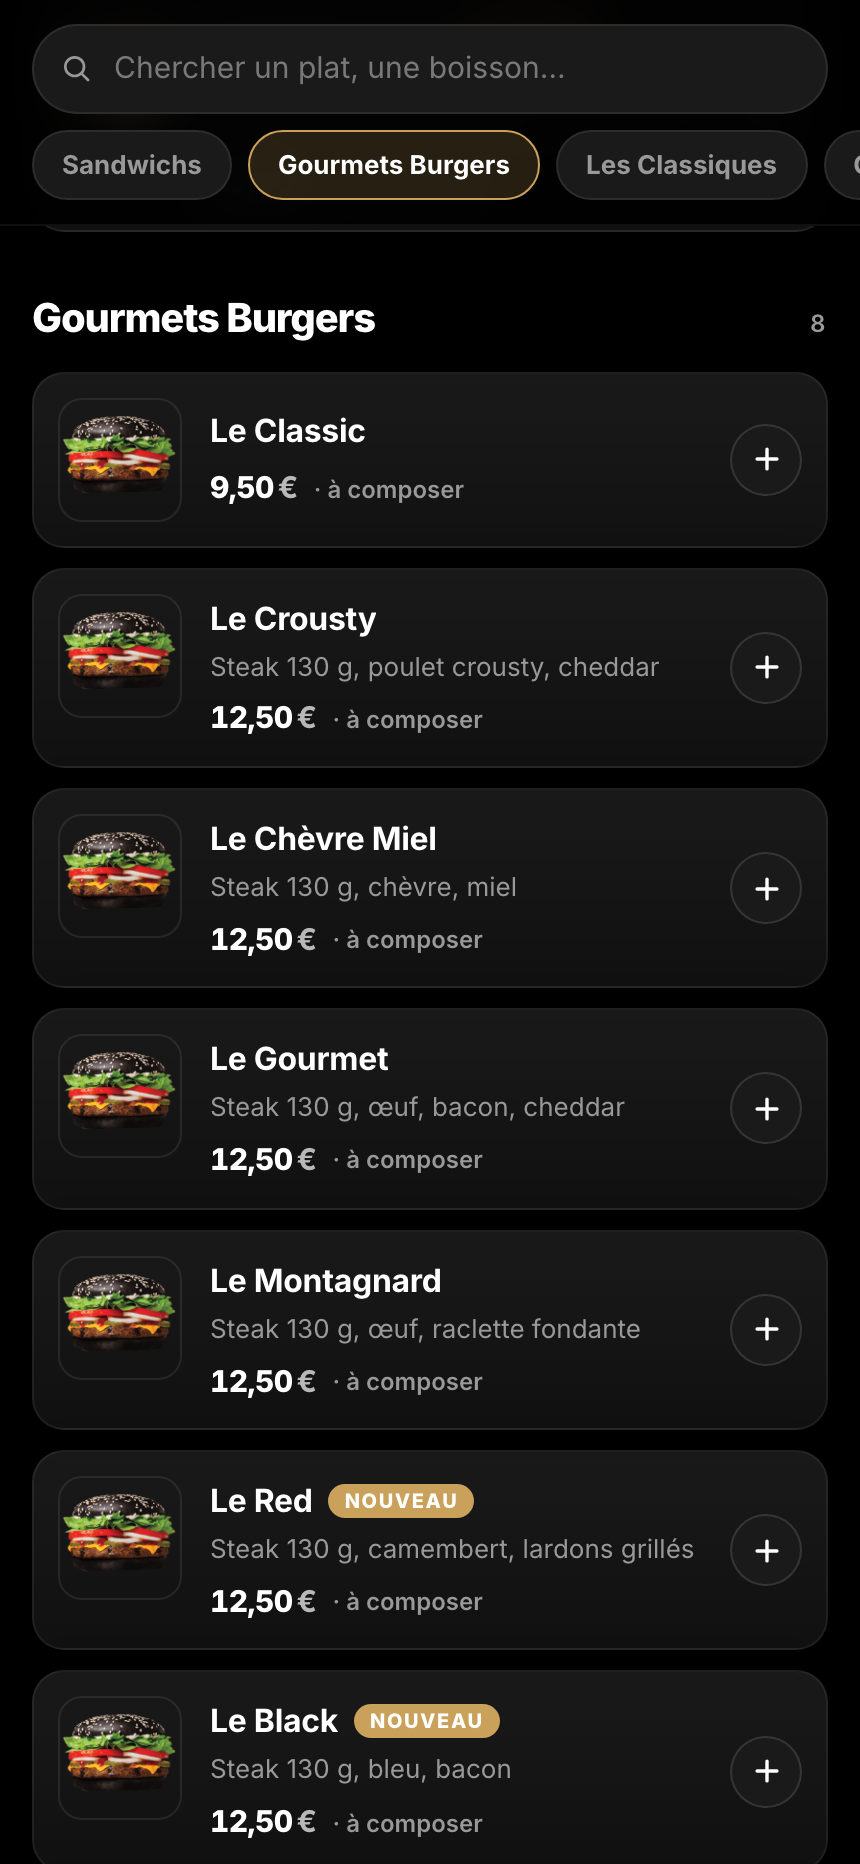
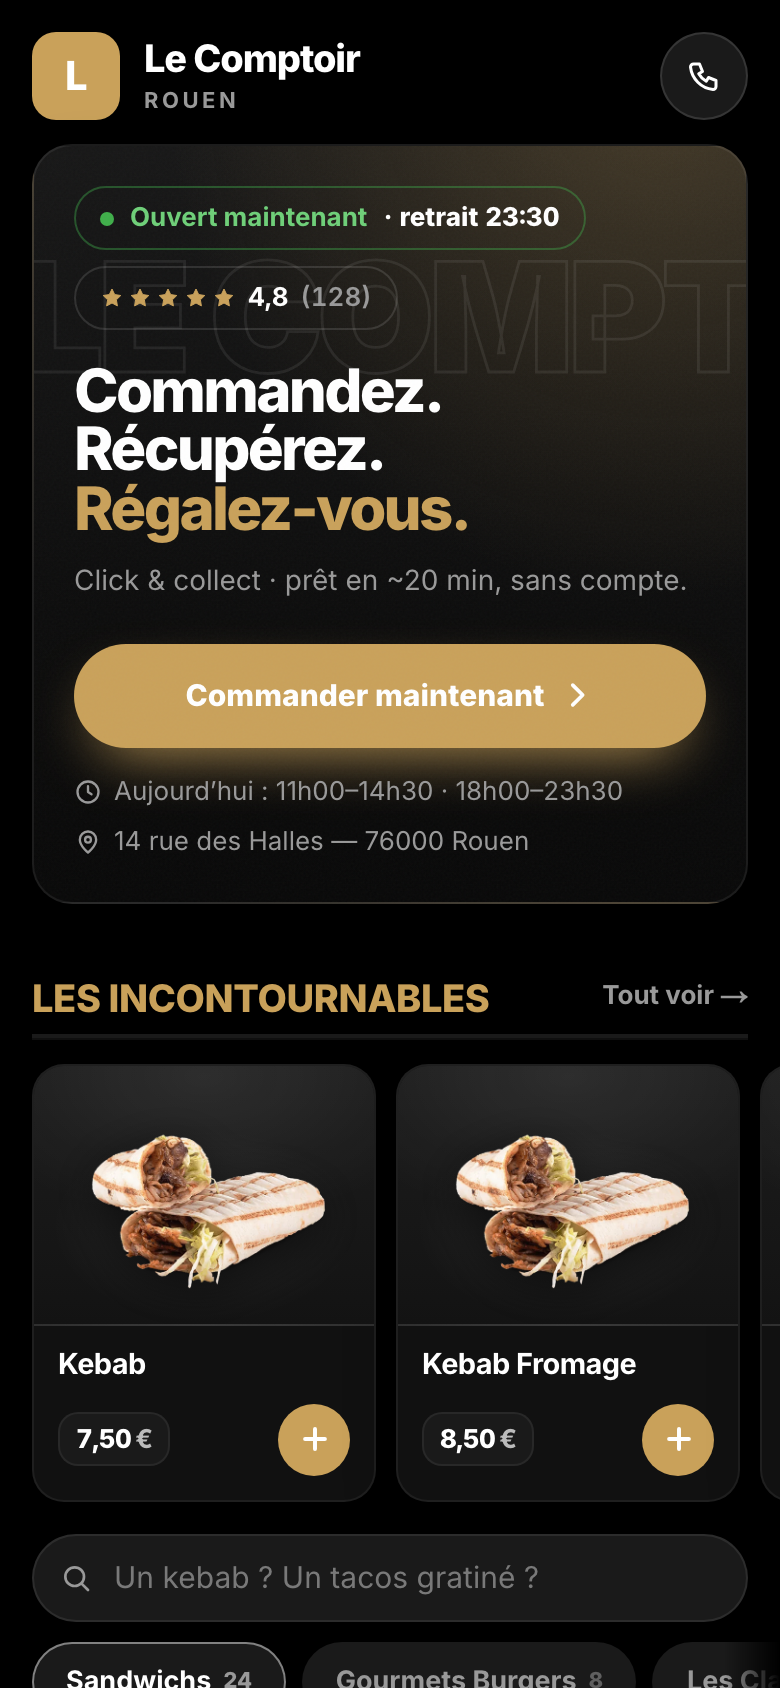
Vitrine : la commande en ligne cesse d'être représentée par le back-office
Deux défauts que le fondateur a vus à l'œil nu, et un troisième trouvé en
les corrigeant.

L'AFFICHE DE LA COMMANDE EN LIGNE ne montrait pas la page d'accueil. Le
script ouvrait « Gourmets Burgers » et photographiait la carte EN PLEIN
DÉFILEMENT : une fiche coupée au bord supérieur, aucun en-tête, aucune
marque. Le commentaire qui justifiait ce choix (« la moitié des sandwichs
sont illustrés par le cliché du panneau mural ») ne tient plus — les
fiches portent des photos produit détourées.

La capture vise désormais /r/demo?demo=1 et non la carte de Class'Food.
Deux raisons qui vont dans le même sens : l'affiche doit montrer ce que le
clic « Essayer » fait apparaître, et la démo a une horloge figée en plein
service. Photographiée un soir après 22h30, la vraie carte affiche
« Fermé · réouvre demain à 18h00 » — constaté, pas supposé.

LE HERO annonçait « Commande en ligne » sur une capture du BACK-OFFICE
(menu.png, page Menu & prix). Le deck représentait donc l'application que
les clients du restaurateur utilisent par une page de gestion sur écran
d'ordinateur. Le libellé dit maintenant ce que l'image montre, et la
vraie commande en ligne entre dans le deck en PORTRAIT — 280×606 entre
des cartes de 730×493, le seul appareil de la rangée qu'un client tient
en main.

DEUX PIÈGES RENCONTRÉS en masquant les bandeaux de démonstration le temps
de la photo, notés dans le script pour la prochaine fois :
· un `style.display` en ligne ne survit pas — React réhydrate pendant le
[…]

diff --git a/apps/web/src/components/marketing/content.ts b/apps/web/src/components/marketing/content.ts
@@ -182,7 +182,18 @@ export const HERO_SHOTS: Shot[] = [
   { src: "/shots/backoffice.png", alt: "Back-office Snack Manager : chiffre d'affaires du jour et commandes en direct" },
   { src: "/shots/pos.png", alt: "Caisse Snack Manager sur tablette, en cours de prise de commande" },
   { src: "/shots/kds.png", alt: "App cuisine Snack Manager : colonnes Nouveau, En préparation, Prêt" },
-  { src: "/shots/menu.png", alt: "Commande en ligne Snack Manager, carte à la couleur du restaurant" },
+  // `menu.png` MONTRE LE BACK-OFFICE, et son texte alternatif annonçait « Commande
+  // en ligne » : le deck représentait donc l'application que les CLIENTS du
+  // restaurateur utilisent par une page de gestion, sur un écran d'ordinateur.
+  // Le libellé dit maintenant ce que l'image montre.
+  { src: "/shots/menu.png", alt: "Back-office Snack Manager : carte et prix, disponibilités en un geste" },
+  // Et la vraie commande en ligne entre dans le deck, en PORTRAIT — c'est le
+  // seul appareil de la rangée que le client du restaurateur tient en main.
+  {
+    src: "/shots/commande.png",
+    alt: "Commande en ligne Snack Manager sur téléphone : carte du restaurant et click and collect",
+    portrait: true,
+  },
   { src: "/shots/board.png", alt: "Écran d'appel client Snack Manager : numéros prêts au retrait" },
 ];
 

diff --git a/apps/web/src/components/marketing/marketing.css b/apps/web/src/components/marketing/marketing.css
@@ -550,6 +550,21 @@ html:has(.mk) {
   object-fit: cover;
   object-position: top center;
 }
+/* LA CARTE TÉLÉPHONE — la seule du deck qui n'est pas un paysage.
+ *
+ * Le deck imposait 16/10 à tout le monde, si bien que la commande en ligne y
+ * était représentée par une capture d'ordinateur : le visiteur voyait cinq
+ * écrans larges et pas un seul appareil que ses clients tiennent en main.
+ * Elle garde la hauteur des autres et rétrécit en largeur — un téléphone
+ * posé entre deux tablettes, ce qui se lit tout de suite. */
+.mk .hero-democard.hd-portrait {
+  width: min(280px, 24%);
+  aspect-ratio: 390 / 844;
+  border-radius: 26px;
+}
+.mk .hero-democard.hd-portrait img {
+  object-position: top center;
+}
 .mk .hero-democard.hd-center {
   transform: translate(-50%, -50%) translateZ(0) rotateY(0);
   opacity: 0.85;

diff --git a/apps/web/src/components/marketing/Hero.tsx b/apps/web/src/components/marketing/Hero.tsx
@@ -52,7 +52,10 @@ export function Hero() {
         <div className="hero-demo" aria-hidden="true">
           <div className="hero-demotrack">
             {HERO_SHOTS.map((shot, i) => (
-              <div className={`hero-democard ${slot(i, current, total)}`} key={shot.src}>
+              <div
+                className={`hero-democard ${slot(i, current, total)}${shot.portrait ? " hd-portrait" : ""}`}
+                key={shot.src}
+              >
                 <Photo shot={shot} eager={i === 0} sizes="(max-width: 810px) 130vw, min(900px, 74vw)" />
               </div>
             ))}
